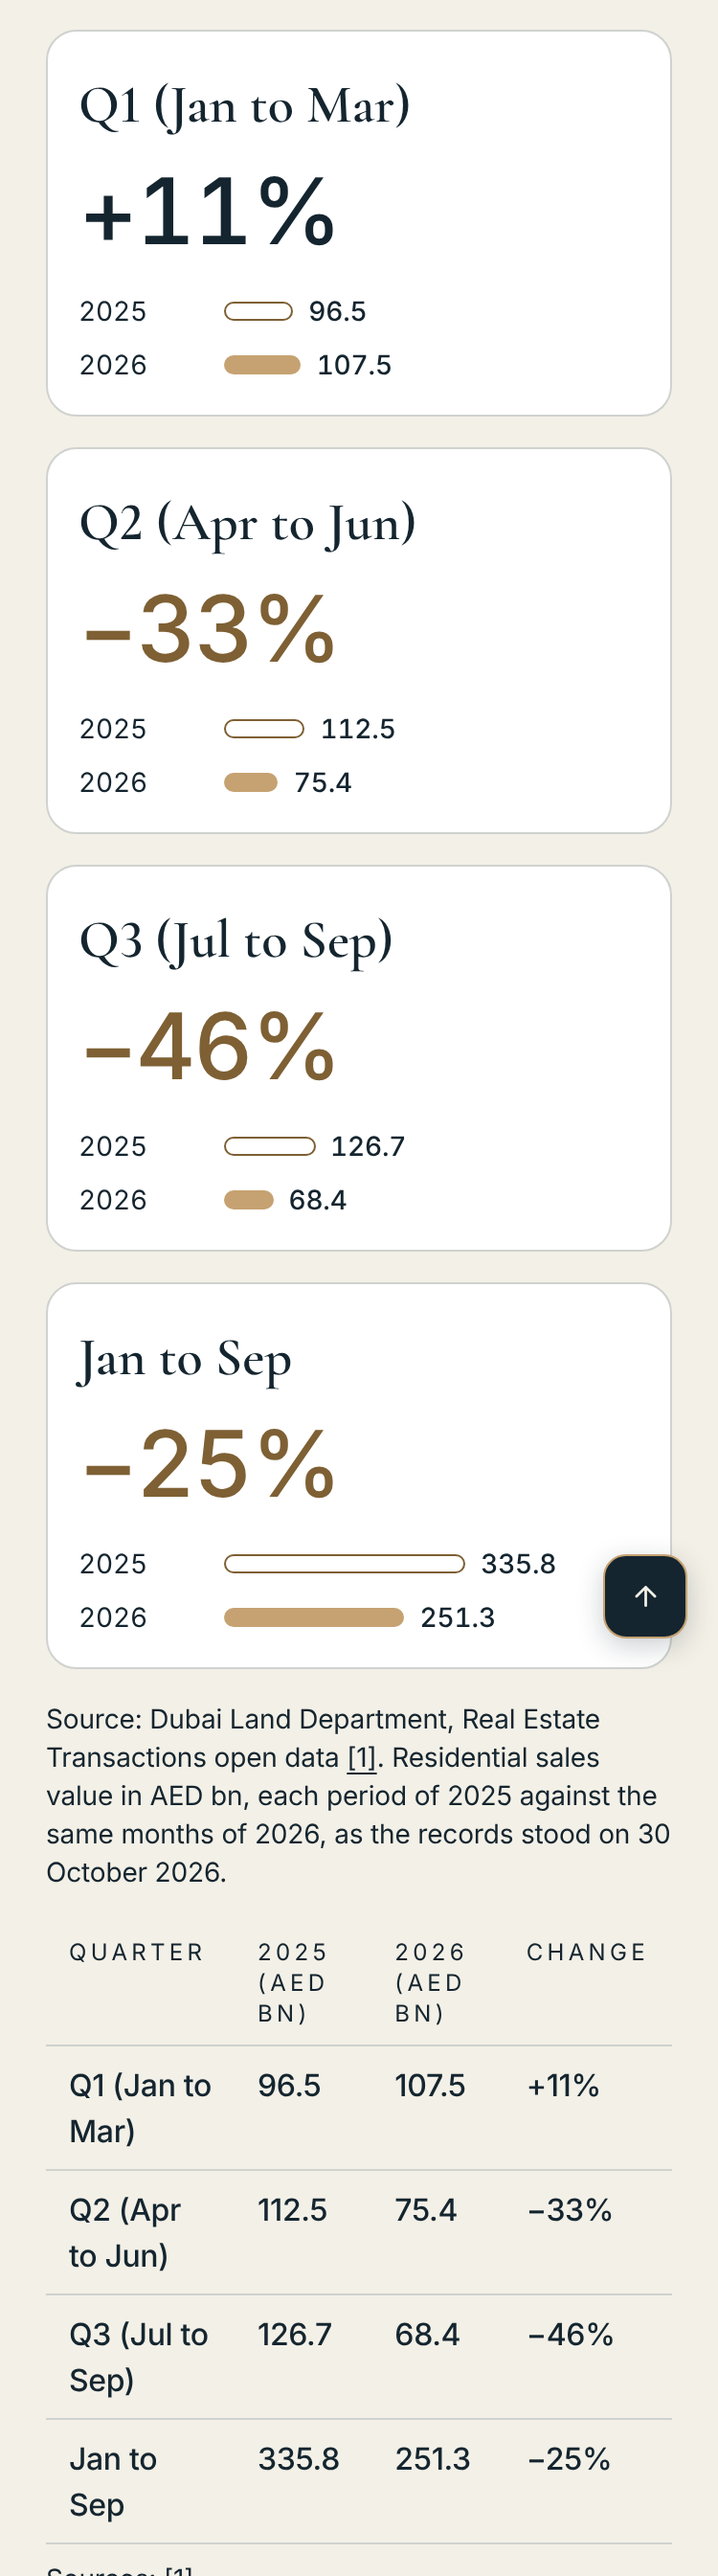
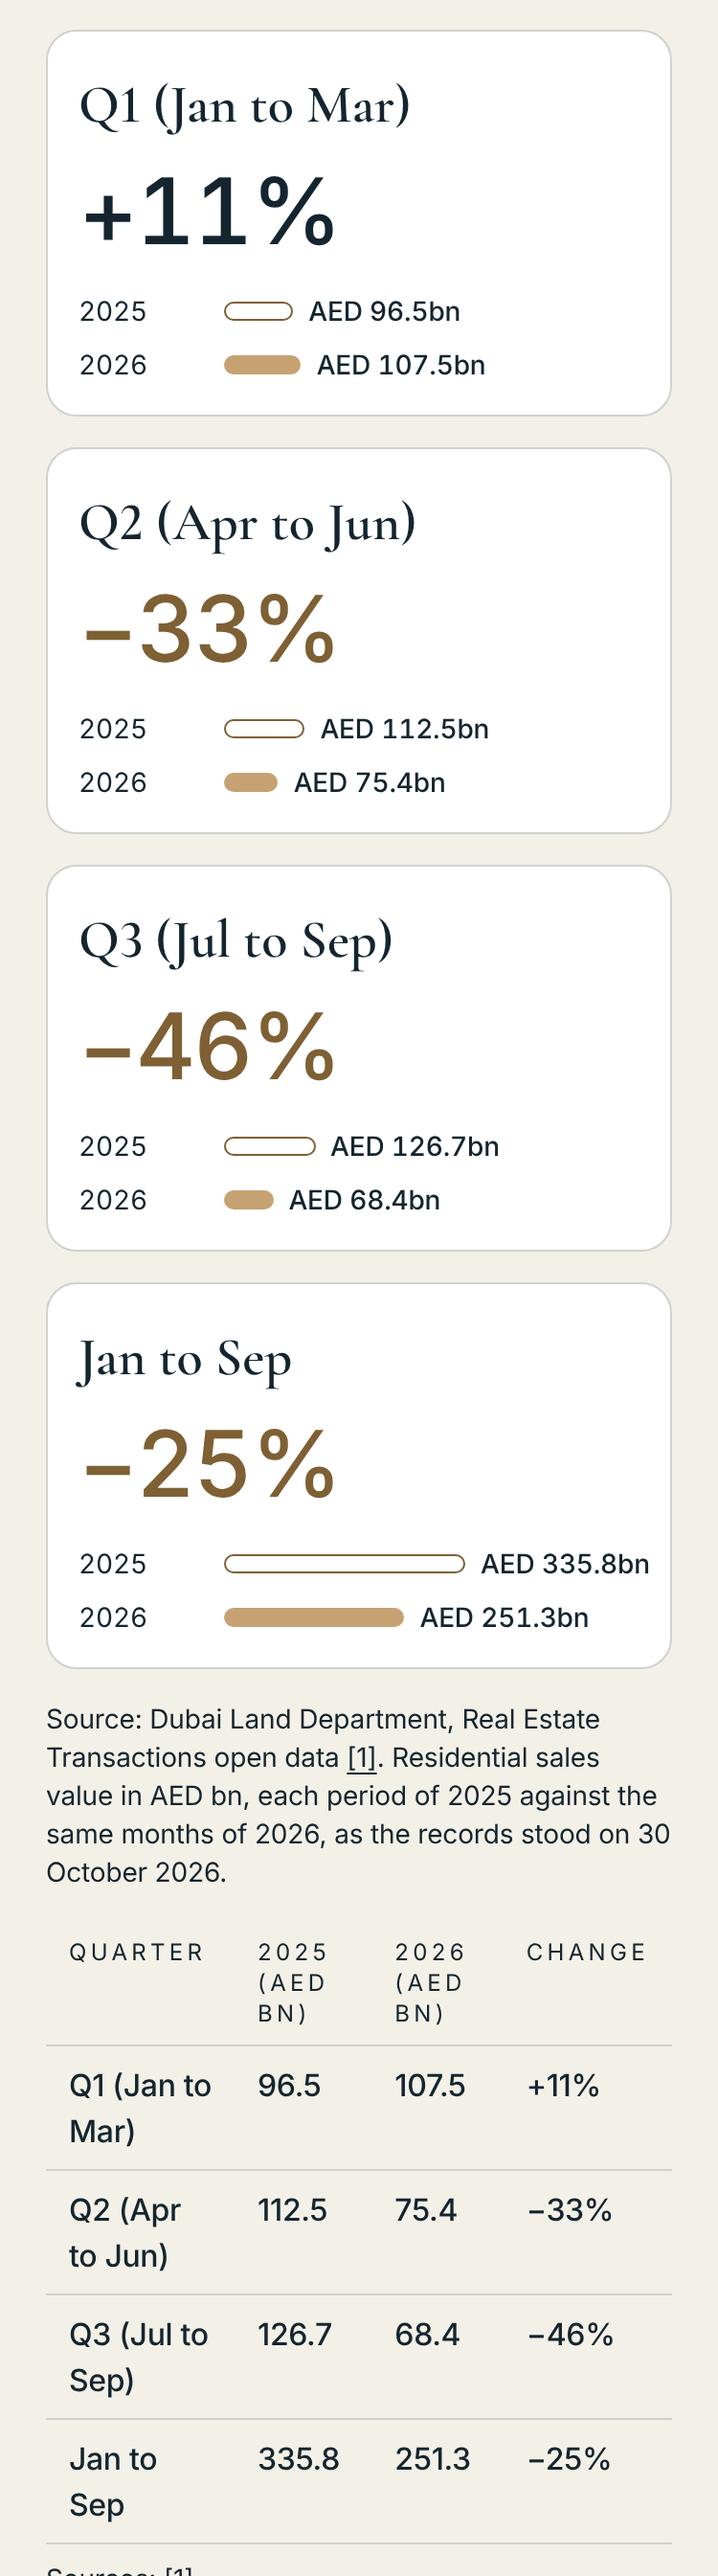
feat(site): Abu Dhabi matches Dubai, Insights card values in AED bn, footer cap
Coordinator review 2026-11-07, one push.

- /areas Abu Dhabi: one section "Top areas · Abu Dhabi" with the same
  Sort by toggle over the one card grid; the separate "Change vs last
  year · Abu Dhabi" table section is removed (renderChange is gone for
  both emirates). In change order the n/p areas go last, after the
  ranked ones, without a change rank. Under the grid: the n/p note, the
  approved caption and the report line, as before. The toggles are
  bound before the Worker fetch.
- Insights cards: bar values in the site's format, "AED 96.5bn", with
  the table's own digits; the tables are unchanged.
- Footer: the stacked lockup is capped at 22.5rem (360px), centred, so
  it is at most 256px tall.
- Tests: the Abu Dhabi toggle (DOM and Chromium), no comparison table
  section outside an Insights article, AED bn card values, the footer
  cap at 320, 375, 600, 703, 704 and 1280.
- Screenshots: Abu Dhabi in both sort orders, the November article,
  footer at 375 and 680.

Claude-Session: https://claude.ai/code/session_015pNCMgX6oo7DsZghVwMfQc

diff --git a/site/src/styles/market.css b/site/src/styles/market.css
@@ -9,10 +9,6 @@
 .mk-src a { color: var(--brass-deep); }
 .mk-label { display: block; font-size: var(--fs-small); line-height: var(--lh-small); letter-spacing: var(--ls-small); color: var(--ink); margin: var(--space-1) 0 0; }
 .mk-num { text-align: right; font-variant-numeric: tabular-nums; white-space: nowrap; }
-.mk-rise { color: var(--ink); }
-.mk-fall { color: var(--brass-deep); }
-.mk-flat, .mk-none { color: var(--ink); }
-.mk-change { font-weight: 500; font-variant-numeric: tabular-nums; }
 
 /* Cormorant's default old-style figures read as letters (11.1 looks like II.I): lining figures in every serif heading.
    The figures themselves are Inter, lining and tabular. */
@@ -45,19 +41,6 @@
   font-size: var(--fs-label); line-height: var(--lh-label); letter-spacing: var(--ls-label); font-weight: 400; text-transform: uppercase;
 }
 .mk-note { margin: var(--space-4) 0 0; padding: var(--space-3) var(--space-4); border-radius: var(--radius-lg); background: var(--band); border: 1px solid var(--line); font-size: var(--fs-small); line-height: var(--lh-small); letter-spacing: var(--ls-small); color: var(--ink); max-width: 46rem; }
-
-/* Change table: the card scrolls sideways, never the page */
-.mk-table-card { background: var(--paper); border: 1px solid var(--line); border-radius: var(--radius-lg); overflow: hidden; }
-/* tabindex="0" in the markup lets a keyboard scroll it (axe scrollable-region-focusable), as .table-scroll does. */
-.mk-table-scroll { overflow-x: auto; }
-/* Inside the card (overflow hidden), so the focus ring is drawn inside the edge. */
-.mk-table-scroll:focus-visible { outline-offset: -3px; }
-.mk-table { width: 100%; border-collapse: collapse; font-size: var(--fs-data); line-height: var(--lh-data); letter-spacing: var(--ls-data); font-weight: 500; min-width: 30rem; }
-.mk-table th, .mk-table td { padding: var(--space-3) var(--space-4); border-bottom: 1px solid var(--line); vertical-align: top; text-align: left; }
-.mk-table th { font-size: var(--fs-label); line-height: var(--lh-label); letter-spacing: var(--ls-label); text-transform: uppercase; font-weight: 400; color: var(--ink); }
-.mk-table th.mk-num, .mk-table td.mk-num { text-align: right; }
-.mk-table tbody tr:last-child td { border-bottom: 0; }
-.mk-tarea { font-weight: 500; }
 
 .mk-ask { margin-top: var(--space-12); font-size: var(--fs-body); line-height: var(--lh-body); letter-spacing: var(--ls-body); color: var(--ink); }
 .mk-ask a { color: var(--brass-deep); }

diff --git a/site/src/styles/global.css b/site/src/styles/global.css
@@ -267,9 +267,10 @@ a.card:hover { border-color: var(--navy); }
 /* Stacked lockup, below 44rem: logo-stacked-ivory.svg (Brand Package v3.0, sh_stacked_ivory_transparent.svg), unchanged.
    Its 1600 x 1600 canvas has the lockup at x 204 to 1396 and y 374 to 1217, so the frame shows x 196 to 1404 and y 366 to
    1226 (1208 x 860): the image is 1600 / 1208 = 132.450% of the frame wide and is moved by its own size, left 196 / 1600 =
-   12.25% and up 366 / 1600 = 22.875%. The frame takes the footer's full content width; the tagline capitals (26 to 27
-   units) are then about 7px tall at 375px and 6px at 320px. */
-.site-footer .brand-stacked { display: block; flex: 1 1 100%; width: 100%; aspect-ratio: 1208 / 860; overflow: hidden; }
+   12.25% and up 366 / 1600 = 22.875%. The frame takes the footer's full content width up to 22.5rem (360px, so at most
+   360 x 860 / 1208 = 256px tall; Coordinator 2026-11-07), centred; the tagline capitals (26 to 27 units) are about 7px
+   tall at 375px, 6px at 320px and 8px at the 360px cap. */
+.site-footer .brand-stacked { display: block; flex: 1 1 100%; width: 100%; max-width: 22.5rem; margin: 0 auto; aspect-ratio: 1208 / 860; overflow: hidden; }
 .site-footer .brand-stacked .lockup { display: block; width: 132.45%; max-width: none; height: auto; transform: translate(-12.25%, -22.875%); }
 /* 44rem (704px) and wider: the Brand Package lockup instead (after the stacked rules, so it wins). */
 @media (min-width: 44rem) {
